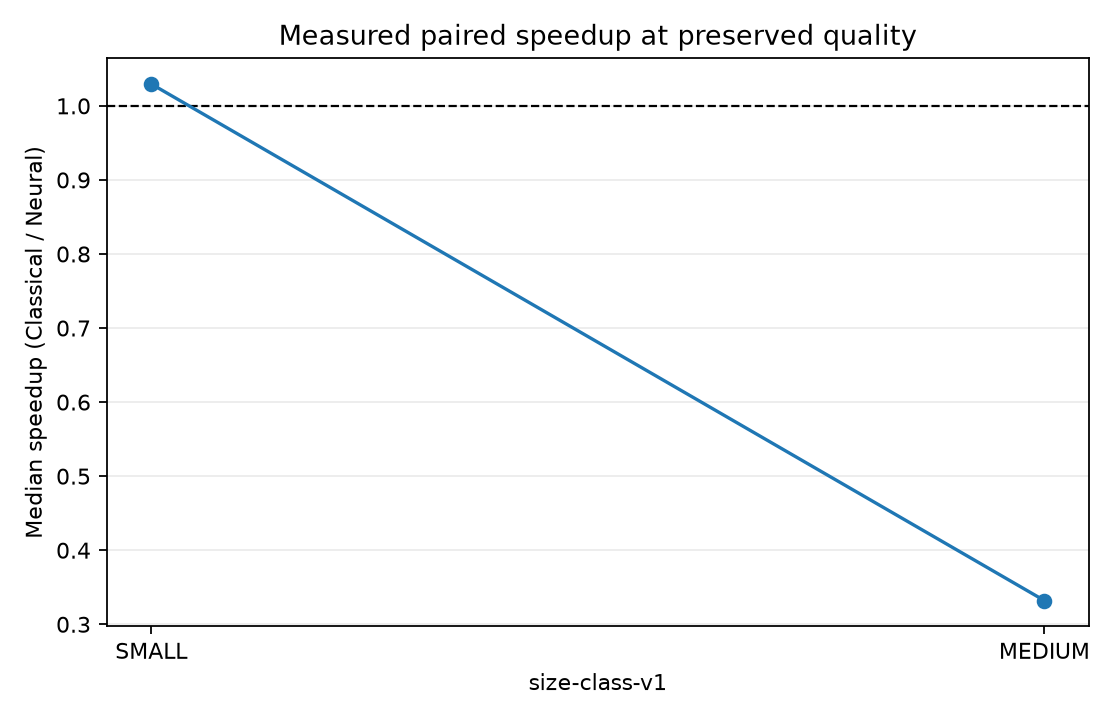
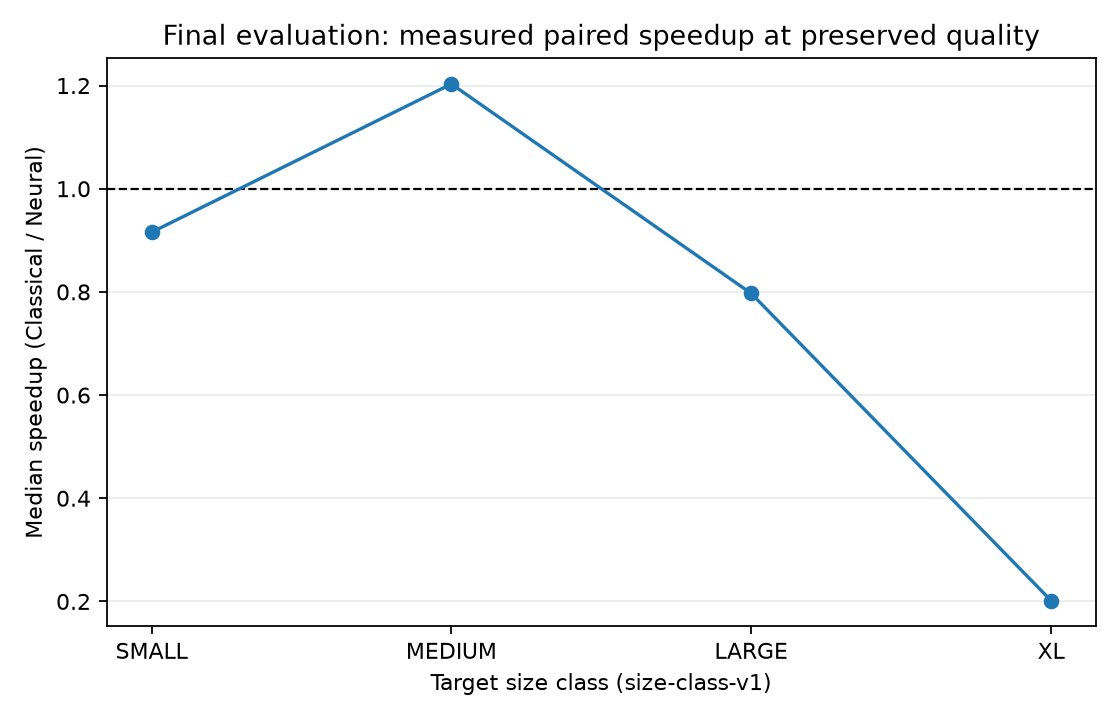
feat(visualization): derive final speedup figure from admissible phase-6 pairs

diff --git a/tests/test_phase6_visualization.py b/tests/test_phase6_visualization.py
@@ -9,6 +9,7 @@ from neural_cutting_stock.visualization.phase4 import load_phase4_runs
 from neural_cutting_stock.visualization.phase6 import (
     phase6_runtime_comparison_data,
     write_phase6_runtime_comparison,
+    write_phase6_speedup_by_size,
 )
 
 ROOT = Path(__file__).parents[1]
@@ -73,16 +74,21 @@ def test_phase6_runtime_medians_aggregate_only_admissible_pairs(tmp_path: Path) 
         "instance_count": 1,
         "classical_median_seconds": 3.0,
         "neural_median_seconds": 2.0,
+        "speedup_median": pytest.approx((2.0 / 1.0 + 4.0 / 3.0) / 2),
     }
     assert large["pair_count"] == 2 and large["instance_count"] == 1
     assert large["classical_median_seconds"] == 11.0
     assert large["neural_median_seconds"] == 6.0
+    assert large["speedup_median"] == pytest.approx((10.0 / 5.0 + 12.0 / 7.0) / 2)
     for empty in ("MEDIUM", "XL"):
         assert data["size_data"][empty]["pair_count"] == 0
         assert data["size_data"][empty]["classical_median_seconds"] is None
+        assert data["size_data"][empty]["speedup_median"] is None
 
     write_phase6_runtime_comparison(data, tmp_path)
+    write_phase6_speedup_by_size(data, tmp_path)
     assert (tmp_path / "runtime_comparison.png").stat().st_size > 0
+    assert (tmp_path / "speedup_by_size.png").stat().st_size > 0
 
 
 def test_phase6_runtime_data_rejects_instances_missing_from_the_final_manifest() -> None:
@@ -104,6 +110,21 @@ def test_phase6_runtime_figure_refuses_to_plot_without_admissible_pairs(tmp_path
     assert data["report"]["admissible_pair_count"] == 0
     with pytest.raises(ValueError, match="no admissible pair"):
         write_phase6_runtime_comparison(data, tmp_path)
+
+
+def test_phase6_speedup_figure_refuses_to_plot_without_admissible_pairs(tmp_path: Path) -> None:
+    records = [
+        _campaign_record(SolverMode.CLASSICAL, "i-1", 0),
+        _campaign_record(SolverMode.NEURAL, "i-1", 0, objective_value=6.0),
+    ]
+    classical, neural = _split_modes(records)
+
+    data = phase6_runtime_comparison_data(classical, neural, {"i-1": "SMALL"})
+
+    assert data["report"]["admissible_pair_count"] == 0
+    assert data["size_data"]["SMALL"]["speedup_median"] is None
+    with pytest.raises(ValueError, match="no admissible pair"):
+        write_phase6_speedup_by_size(data, tmp_path)
 
 
 def test_phase6_runtime_figure_is_derived_from_published_final_results(tmp_path: Path) -> None:
@@ -136,6 +157,9 @@ def test_phase6_runtime_figure_is_derived_from_published_final_results(tmp_path:
         assert item["pair_count"] == 9 and item["instance_count"] == 3
         assert item["classical_median_seconds"] > 0.0
         assert item["neural_median_seconds"] > 0.0
+        assert item["speedup_median"] > 0.0
 
     write_phase6_runtime_comparison(data, tmp_path)
     assert (tmp_path / "runtime_comparison.png").stat().st_size > 0
+    write_phase6_speedup_by_size(data, tmp_path)
+    assert (tmp_path / "speedup_by_size.png").stat().st_size > 0

diff --git a/src/neural_cutting_stock/visualization/phase6.py b/src/neural_cutting_stock/visualization/phase6.py
@@ -116,9 +116,10 @@ def phase6_runtime_comparison_data(
 
     The paired tables are rebuilt from the raw campaign records with the same
     machinery as the published tables; only quality-preserved admissible
-    repetitions feed the medians. Grouping uses the frozen pre-evaluation
-    ``target_size_class`` of the final instance manifest, not the per-run
-    measured size class, so both modes are grouped on the same strata.
+    repetitions feed the runtime and speedup medians. Grouping uses the frozen
+    pre-evaluation ``target_size_class`` of the final instance manifest, not
+    the per-run measured size class, so both modes are grouped on the same
+    strata.
     """
 
     report = build_paired_tables(classical_records, neural_records, quality_tolerance)
@@ -144,6 +145,7 @@ def phase6_runtime_comparison_data(
             "neural_median_seconds": _median(
                 [row["neural_total_runtime_seconds"] for row in rows]
             ),
+            "speedup_median": _median([row["speedup_vs_classical"] for row in rows]),
         }
     return {"report": report, "size_data": size_data}
 
@@ -176,6 +178,26 @@ def write_phase6_runtime_comparison(data: dict[str, Any], output_dir: str | Path
     axis.grid(axis="y", alpha=0.25)
     figure.tight_layout()
     figure.savefig(output / "runtime_comparison.png", dpi=160)
+    plt.close(figure)
+
+
+def write_phase6_speedup_by_size(data: dict[str, Any], output_dir: str | Path) -> None:
+    """Write ``speedup_by_size.png`` from admissible final pairs only."""
+
+    output = Path(output_dir)
+    output.mkdir(parents=True, exist_ok=True)
+    sizes = [size for size in SIZE_CLASSES if data["size_data"][size]["pair_count"]]
+    if not sizes:
+        raise ValueError("no admissible pair is available for the speedup by size figure")
+    figure, axis = plt.subplots(figsize=(7, 4.5))
+    axis.axhline(1.0, color="black", linewidth=1, linestyle="--")
+    axis.plot(sizes, [data["size_data"][size]["speedup_median"] for size in sizes], "o-")
+    axis.set_xlabel("Target size class (size-class-v1)")
+    axis.set_ylabel("Median speedup (Classical / Neural)")
+    axis.set_title("Final evaluation: measured paired speedup at preserved quality")
+    axis.grid(axis="y", alpha=0.25)
+    figure.tight_layout()
+    figure.savefig(output / "speedup_by_size.png", dpi=160)
     plt.close(figure)
 
 

diff --git a/scripts/plot_phase6_results.py b/scripts/plot_phase6_results.py
@@ -1,4 +1,4 @@
-"""Generate the final runtime comparison figure from validated Phase 6 runs."""
+"""Generate the final runtime and speedup figures from validated Phase 6 runs."""
 
 import argparse
 import json
@@ -9,6 +9,7 @@ from neural_cutting_stock.visualization.phase4 import load_phase4_runs
 from neural_cutting_stock.visualization.phase6 import (
     phase6_runtime_comparison_data,
     write_phase6_runtime_comparison,
+    write_phase6_speedup_by_size,
 )
 
 
@@ -39,7 +40,9 @@ def main() -> None:
     )
     args.output_dir.mkdir(parents=True, exist_ok=True)
     write_phase6_runtime_comparison(data, args.output_dir)
+    write_phase6_speedup_by_size(data, args.output_dir)
     print(f"wrote {args.output_dir / 'runtime_comparison.png'}")
+    print(f"wrote {args.output_dir / 'speedup_by_size.png'}")
     report = data["report"]
     print(f"pairs: {report['pair_count']}, admissible: {report['admissible_pair_count']}")
 

diff --git a/ROADMAP.md b/ROADMAP.md
@@ -152,7 +152,7 @@ Objectif : répondre sans ambiguïté à la question de recherche sur des instan
 - [x] **P6.08** — Conserver et analyser échecs, violations, fallbacks et timeouts des deux modes.
 - [x] **P6.09** — Produire les tableaux appariés de qualité, runtime, mémoire, itérations et colonnes.
 - [x] **P6.10** — Générer `results/runtime_comparison.png` uniquement depuis les résultats finaux validés.
-- [ ] **P6.11** — Générer `results/speedup_by_size.png` uniquement depuis les paires de qualité admissible.
+- [x] **P6.11** — Générer `results/speedup_by_size.png` uniquement depuis les paires de qualité admissible.
 - [ ] **P6.12** — Rédiger la conclusion scientifique, les limites et les conditions de reproductibilité.
 - [ ] **P6.13** — Effectuer l'audit final et retirer code mort, doublons et artefacts temporaires inutiles.
 - [ ] **P6.14** — Publier `results/phase-6-summary.md`, le manifeste final et les commandes de reproduction.
